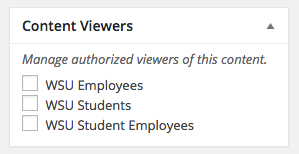
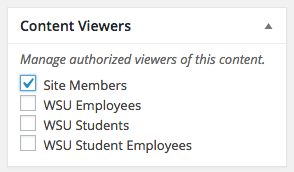
Provide a default group for "Site Members"

diff --git a/includes/class-wsuwp-content-visibility.php b/includes/class-wsuwp-content-visibility.php
@@ -12,6 +12,13 @@ class WSUWP_Content_Visibility {
 	private static $instance;
 
 	/**
+	 * @var array Default groups supported by Content Visibility.
+	 */
+	var $default_groups = array(
+		array( 'id' => 'site-member', 'name' => 'Site Members' ),
+	);
+
+	/**
 	 * Maintain and return the one instance of the plugin. Initiate hooks when
 	 * called the first time.
 	 *
@@ -83,16 +90,21 @@ class WSUWP_Content_Visibility {
 				return $caps;
 			}
 
+			$group_member = false;
+			if ( in_array( 'site-member', $groups, true ) && is_user_member_of_blog( $user_id ) ) {
+				$group_member = true;
+			}
+
 			/**
 			 * Filter whether a user is a member of the allowed groups to view this private content.
 			 *
 			 * @since 0.1.0
 			 *
-			 * @param bool  $value   Default false. True if the user is a member of the passed groups. False if not.
-			 * @param int   $user_id ID of the user attempting to view content.
-			 * @param array $groups  List of allowed groups attached to a post.
+			 * @param bool  $group_member Default false. True if the user is a member of the passed groups. False if not.
+			 * @param int   $user_id      ID of the user attempting to view content.
+			 * @param array $groups       List of allowed groups attached to a post.
 			 */
-			if ( false === apply_filters( 'user_in_content_visibility_groups', false, $user_id, $groups ) ) {
+			if ( false === apply_filters( 'user_in_content_visibility_groups', $group_member, $user_id, $groups ) ) {
 				return $caps;
 			}
 
@@ -147,7 +159,7 @@ class WSUWP_Content_Visibility {
 		 *
 		 * @param array $group_details Array of details, containing only basic information by default.
 		 */
-		$default_groups = apply_filters( 'content_visibility_default_groups', array() );
+		$default_groups = apply_filters( 'content_visibility_default_groups', $this->default_groups );
 
 		$viewer_groups = (array) get_post_meta( $post->ID, '_content_visibility_viewer_groups', true );
 
@@ -211,7 +223,7 @@ class WSUWP_Content_Visibility {
 		 *
 		 * @param array $group_details Array of details, containing only basic information by default.
 		 */
-		$default_groups = apply_filters( 'content_visibility_default_groups', array() );
+		$default_groups = apply_filters( 'content_visibility_default_groups', $this->default_groups );
 		$default_group_ids = wp_list_pluck( $default_groups, 'id' );
 
 		$content_viewer_ids = isset( $_POST['content_view'] ) ? (array) $_POST['content_view'] : array();

diff --git a/tests/test-wsuwp-content-visibility.php b/tests/test-wsuwp-content-visibility.php
@@ -101,4 +101,30 @@ class Test_WSUWP_Content_Visibility extends WP_UnitTestCase {
 
 		$this->assertEquals( $filtered_caps, $actual_caps );
 	}
+
+	/**
+	 * If a user is a site member and the default group for site members is assigned to the post, then the
+	 * list of caps passed to allow_read_private_posts should change to return the read_posts cap for the post type.
+	 */
+	public function test_site_member_user_in_content_visibility_groups_default_groups() {
+		$post_id = $this->factory->post->create( array( 'post_title' => 'Test Post', 'post_status' => 'private' ) );
+		$user_id = $this->factory->user->create( array( 'user_login' => 'testsubscriber', 'role' => 'Subscriber' ) );
+
+		$post = get_post( $post_id );
+		$post_type = get_post_type_object( $post->post_type );
+
+		$caps = array( $post_type->cap->read_private_posts );
+		$filtered_caps = array( $post_type->cap->read );
+
+		$cap = 'read_post';
+		$args = array( $post->ID );
+
+		update_post_meta( $post->ID, '_content_visibility_viewer_groups', array( 'site-member' ) );
+
+		$content_visibility = WSUWP_Content_Visibility();
+
+		$actual_caps = $content_visibility->allow_read_private_posts( $caps, $cap, $user_id, $args );
+
+		$this->assertEquals( $filtered_caps, $actual_caps );
+	}
 }

diff --git a/README.md b/README.md
@@ -8,7 +8,7 @@ Control the visibility of content for groups of authenticated users.
 
 ## Overview
 
-WSU Content Visibility provides a general method to control visibility of a private post based on the groups a user belongs to. The plugin does not contain any default groups. Instead, custom code should be used to provide group and user associations through the provided hooks.
+WSU Content Visibility provides a general method to control visibility of a private post based on the groups a user belongs to. A default `site-member` group is provided. Custom code should be used to provide additional group and user associations through the provided hooks.
 
 For a list of groups to appear, the `post_status` of the post (or other post type) must be `private`.
 
@@ -47,6 +47,6 @@ array(
 
 ## User Verification
 
-When an authenticated user attempts to view a private post, the `user_in_content_visibility_groups` filter fires to determine if the user is a member of an assigned group. `false` is assigned by default, but a plugin can filter this to `true`.
+When an authenticated user attempts to view a private post, the `user_in_content_visibility_groups` filter fires to determine if the user is a member of an assigned group.
 
 The user and a list of group IDs assigned as viewers to the post will be passed to the filter to help in determining view access.
